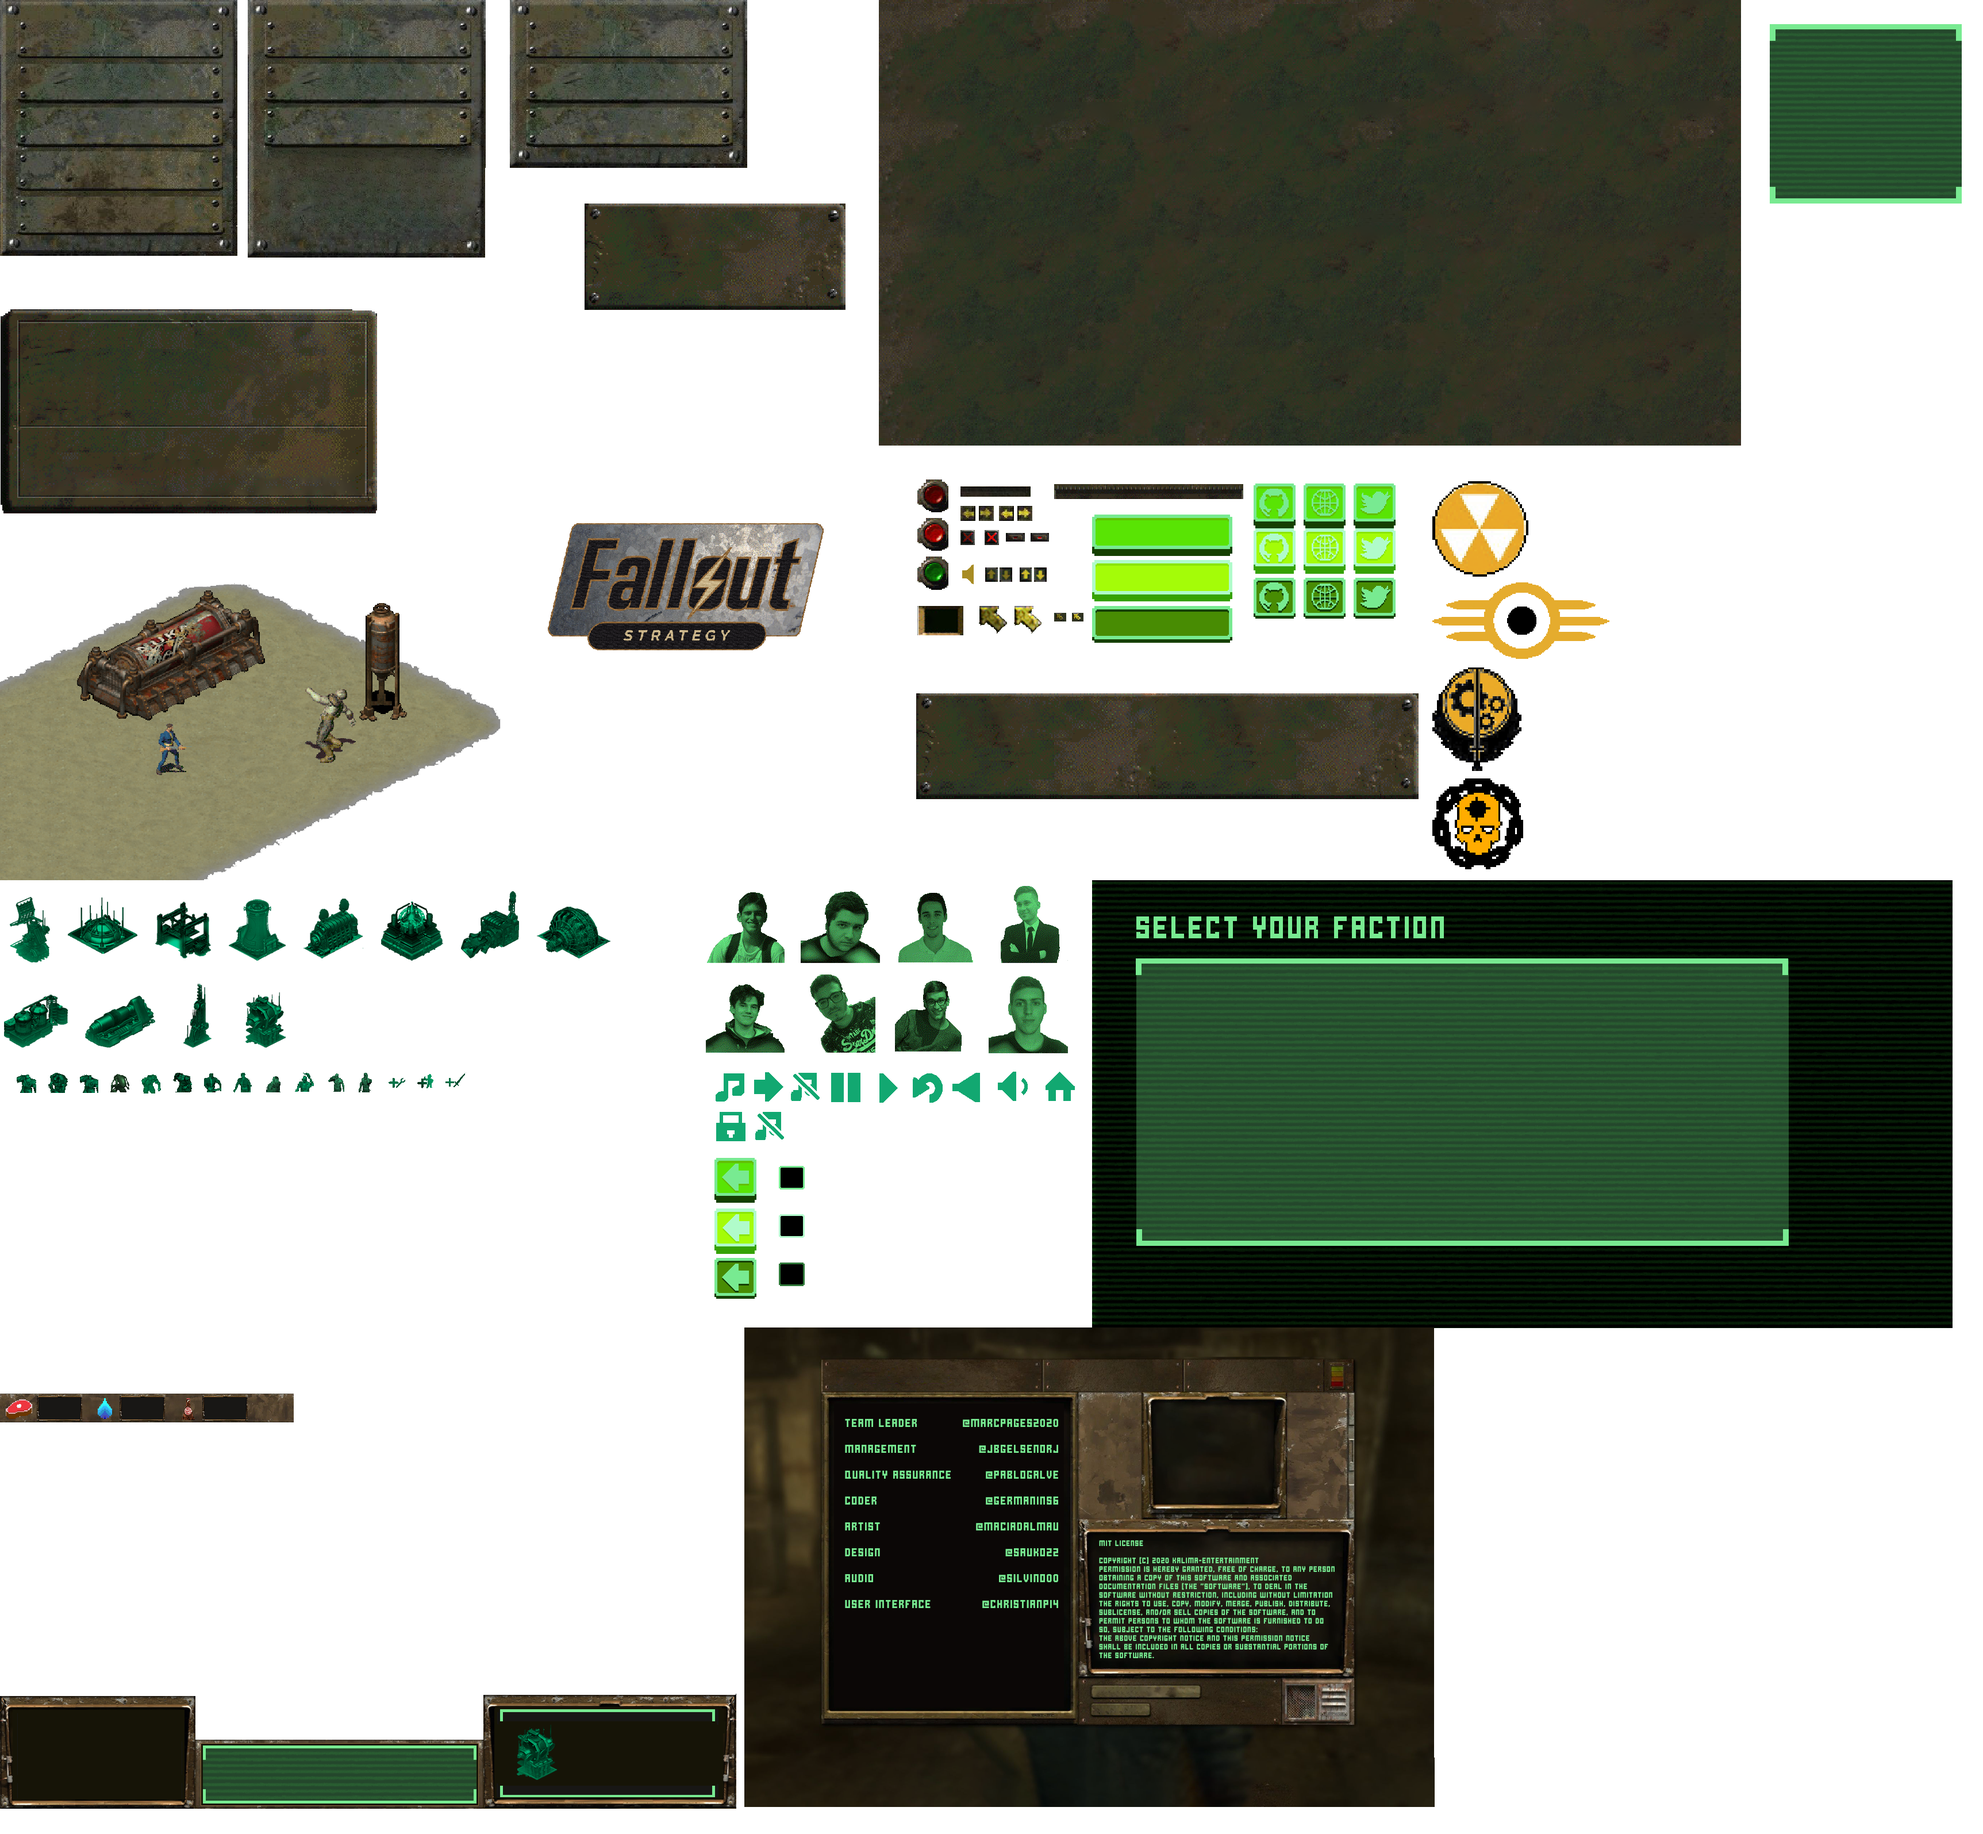
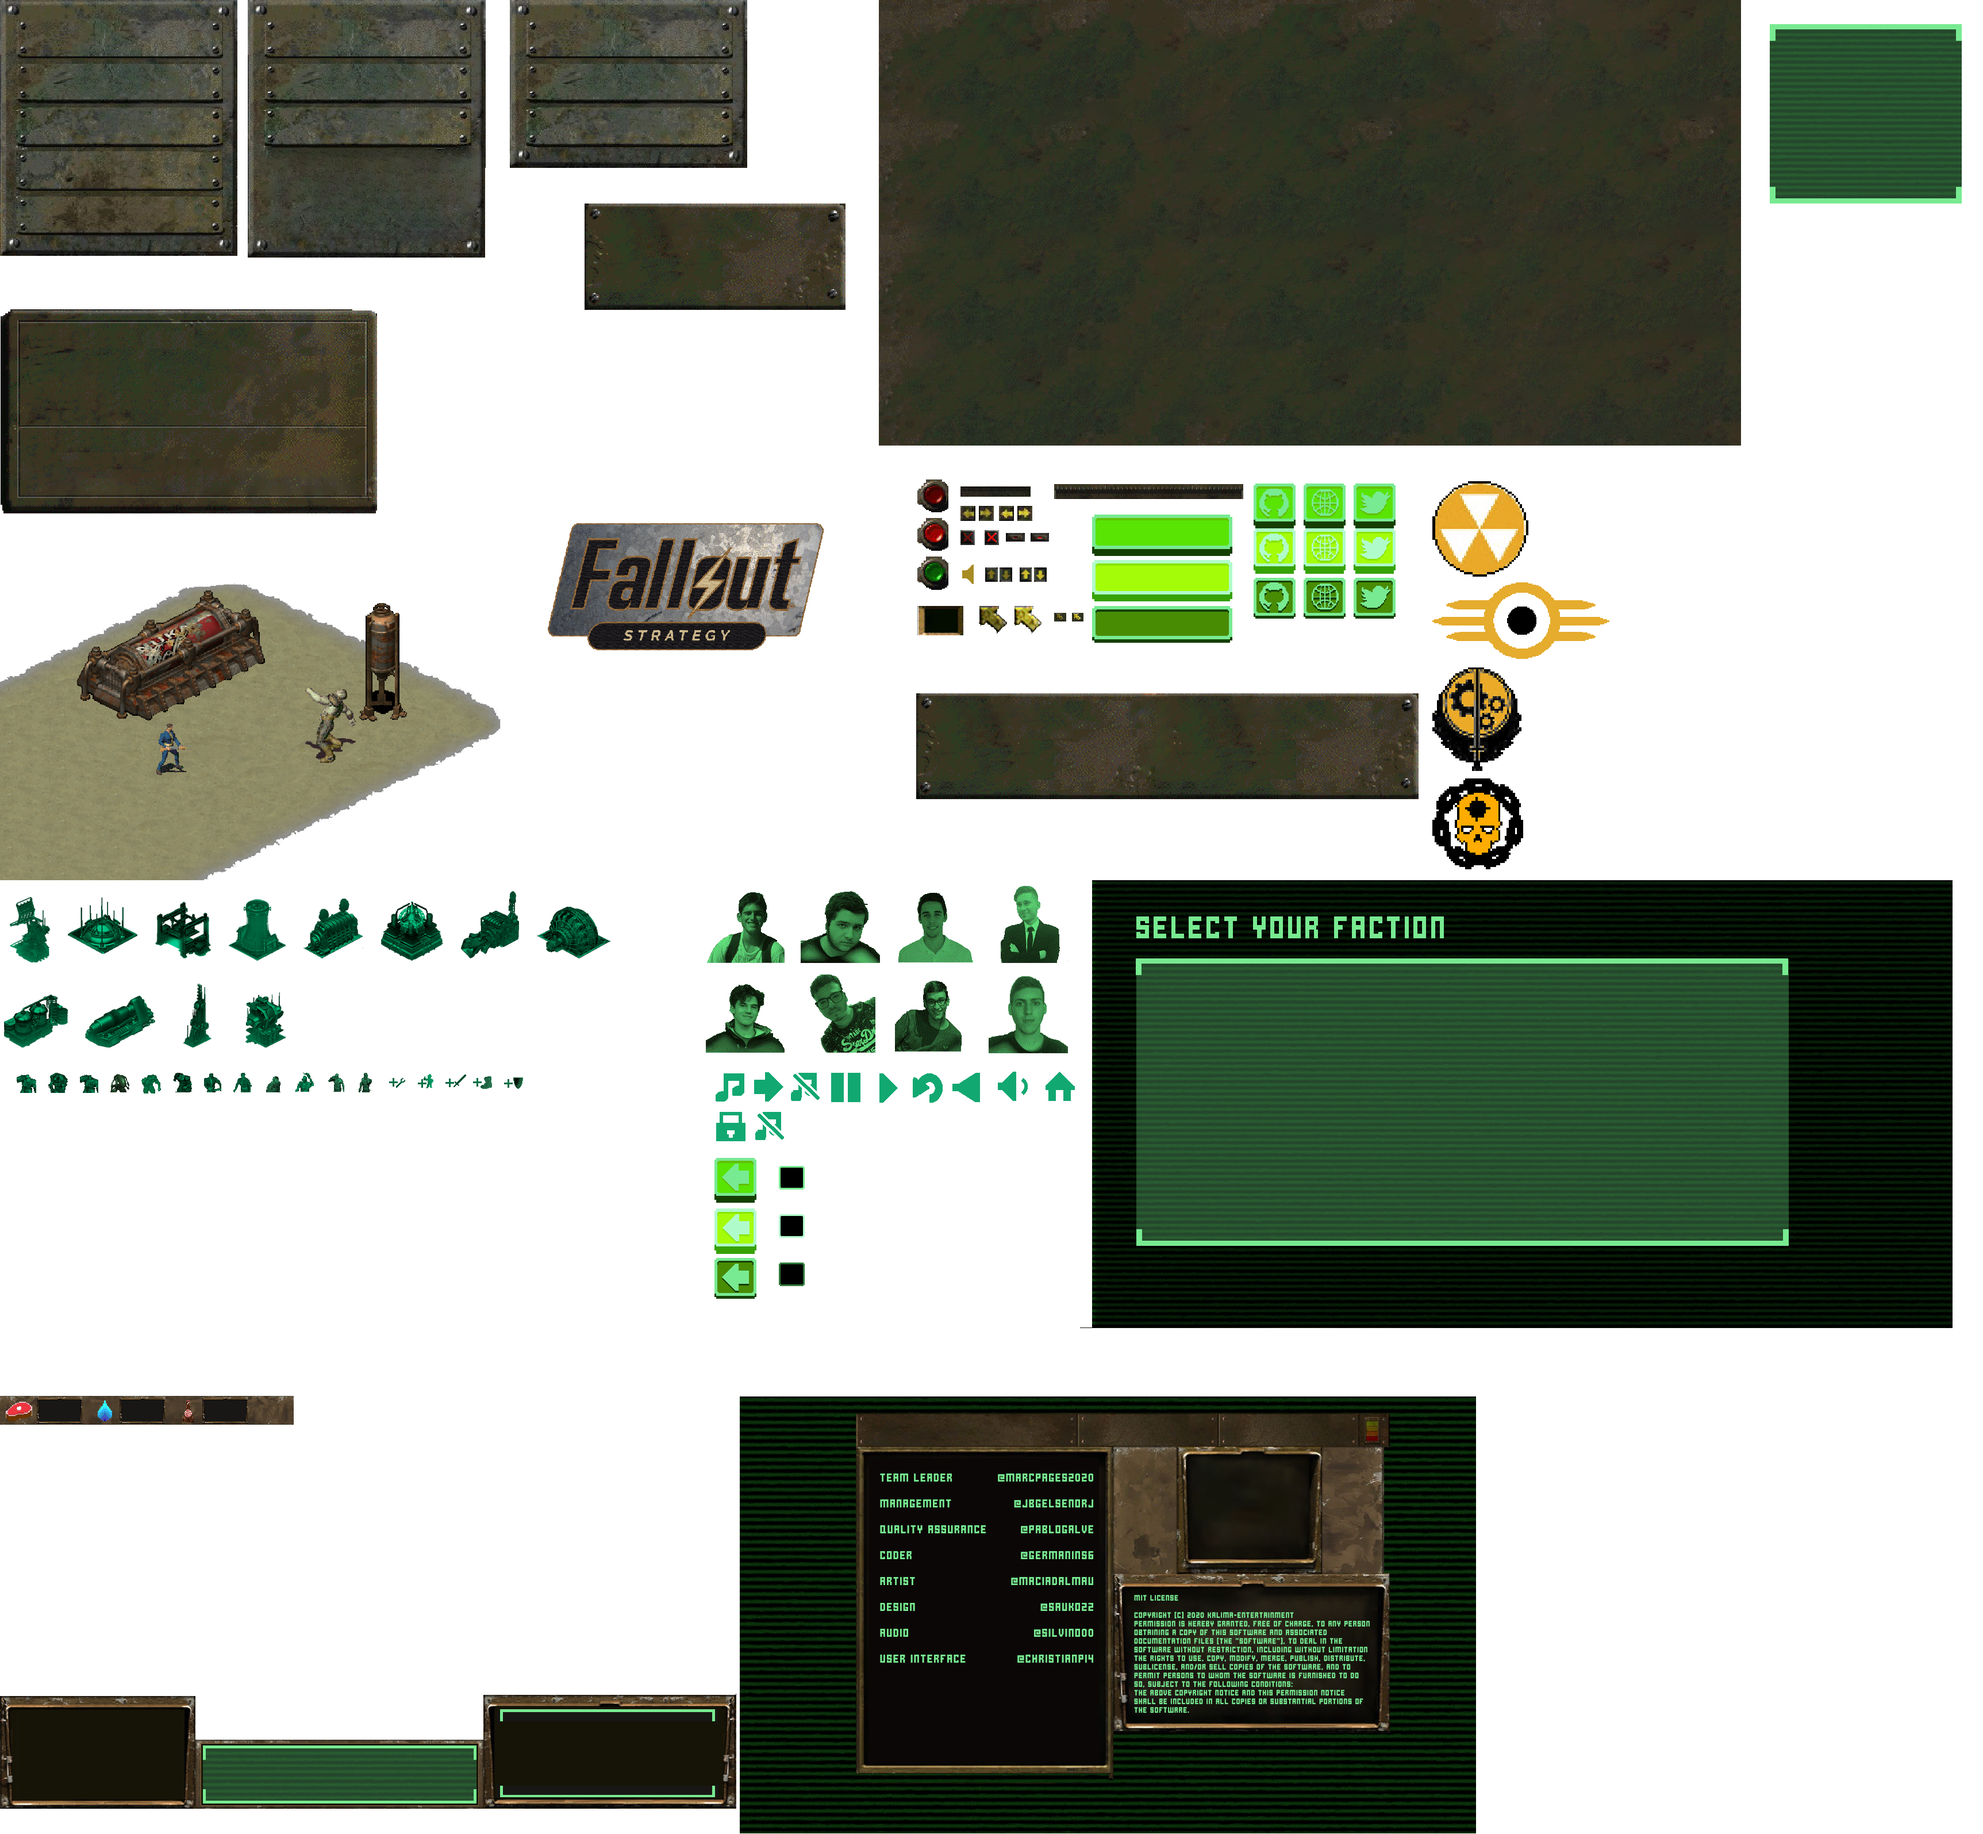
Update UI

Changed region(s): [[0.3722, 0.7138, 0.7443, 1.0], [0.0, 0.7448, 0.1241, 0.7759], [0.2481, 0.931, 0.2791, 0.9931]]

diff --git a/FalloutStrategy/Motor2D/MenuManager.cpp b/FalloutStrategy/Motor2D/MenuManager.cpp
@@ -86,21 +86,21 @@ void MenuManager::DestroyMainMenu()
 void MenuManager::CreateCredits()
 {
 	//Images
-	credits_menu.background = (j1Image*)App->gui->CreateImage(-90, 0, Image, { 0, 1536, 1207, 837 }, NULL, this);
+	credits_menu.background = (j1Image*)App->gui->CreateImage(0, 0, Image, { 1287, 2430, 1281, 730 }, NULL, this);
 
 	//Buttons
-	credits_menu.back_button = (UI_Button*)App->gui->CreateButton(65, 65, button_back_credits, { 1704,1054,48,46 }, { 1765,1054,48,46 }, { 1765,1054,48,46 }, NULL, this);
-	credits_menu.github_button = (UI_Button*)App->gui->CreateButton(110, 550, button_github_credits, { 2181,841,73,78 }, { 2181,919,73,78 }, { 2181,1005,73,78 }, NULL, this);
-	credits_menu.web_button = (UI_Button*)App->gui->CreateButton(230, 550, button_web_credits, { 2268,841,73,78 }, { 2268,919,73,78 }, { 2268,1005,73,78 }, NULL, this);
-	credits_menu.twitter_button = (UI_Button*)App->gui->CreateButton(350, 550, button_twitter_credits, { 2355,841,73,78 }, { 2355,919,73,78 }, { 2355,1005,73,78 }, NULL, this);
-	credits_menu.marc_button = (UI_Button*)App->gui->CreateButton(290, 160, button_marc, { 0,455,166,17 }, { 0,455,166,17 }, { 0,455,166,17 }, NULL, this);
-	credits_menu.javi_button = (UI_Button*)App->gui->CreateButton(290, 205, button_javi, { 0,455,166,17 }, { 0,455,166,17 }, { 0,455,166,17 }, NULL, this);
-	credits_menu.pablo_button = (UI_Button*)App->gui->CreateButton(290, 250, button_pablo, { 0,455,166,17 }, { 0,455,166,17 }, { 0,455,166,17 }, NULL, this);
-	credits_menu.german_button = (UI_Button*)App->gui->CreateButton(290, 295, button_german, { 0,455,166,17 }, { 0,455,166,17 }, { 0,455,166,17 }, NULL, this);
-	credits_menu.macia_button = (UI_Button*)App->gui->CreateButton(290, 340, button_macia, { 0,455,166,17 }, { 0,455,166,17 }, { 0,455,166,17 }, NULL, this);
-	credits_menu.pol_button = (UI_Button*)App->gui->CreateButton(290, 385, button_pol, { 0,455,166,17 }, { 0,455,166,17 }, { 0,455,166,17 }, NULL, this);
-	credits_menu.silvino_button = (UI_Button*)App->gui->CreateButton(290, 430, button_silvino, { 0,455,166,17 }, { 0,455,166,17 }, { 0,455,166,17 }, NULL, this);
-	credits_menu.cristian_button = (UI_Button*)App->gui->CreateButton(290, 475, button_cristian, { 0,455,166,17 }, { 0,455,166,17 }, { 0,455,166,17 }, NULL, this);
+	credits_menu.back_button = (UI_Button*)App->gui->CreateButton(65, 65, button_back_credits, { 1243,2014,73,78 }, { 1243,2102,73,79 }, { 1243,2188,73,71 }, NULL, this);
+	credits_menu.github_button = (UI_Button*)App->gui->CreateButton(750, 600, button_github_credits, { 2181,841,73,78 }, { 2181,919,73,78 }, { 2181,1005,73,78 }, NULL, this);
+	credits_menu.web_button = (UI_Button*)App->gui->CreateButton(850, 600, button_web_credits, { 2268,841,73,78 }, { 2268,919,73,78 }, { 2268,1005,73,78 }, NULL, this);
+	credits_menu.twitter_button = (UI_Button*)App->gui->CreateButton(950, 600, button_twitter_credits, { 2355,841,73,78 }, { 2355,919,73,78 }, { 2355,1005,73,78 }, NULL, this);
+	credits_menu.marc_button = (UI_Button*)App->gui->CreateButton(450, 130, button_marc, { 0,455,166,17 }, { 0,455,166,17 }, { 0,455,166,17 }, NULL, this);
+	credits_menu.javi_button = (UI_Button*)App->gui->CreateButton(450, 175, button_javi, { 0,455,166,17 }, { 0,455,166,17 }, { 0,455,166,17 }, NULL, this);
+	credits_menu.pablo_button = (UI_Button*)App->gui->CreateButton(450, 220, button_pablo, { 0,455,166,17 }, { 0,455,166,17 }, { 0,455,166,17 }, NULL, this);
+	credits_menu.german_button = (UI_Button*)App->gui->CreateButton(450, 265, button_german, { 0,455,166,17 }, { 0,455,166,17 }, { 0,455,166,17 }, NULL, this);
+	credits_menu.macia_button = (UI_Button*)App->gui->CreateButton(450, 310, button_macia, { 0,455,166,17 }, { 0,455,166,17 }, { 0,455,166,17 }, NULL, this);
+	credits_menu.pol_button = (UI_Button*)App->gui->CreateButton(450, 355, button_pol, { 0,455,166,17 }, { 0,455,166,17 }, { 0,455,166,17 }, NULL, this);
+	credits_menu.silvino_button = (UI_Button*)App->gui->CreateButton(450, 400, button_silvino, { 0,455,166,17 }, { 0,455,166,17 }, { 0,455,166,17 }, NULL, this);
+	credits_menu.cristian_button = (UI_Button*)App->gui->CreateButton(450, 445, button_cristian, { 0,455,166,17 }, { 0,455,166,17 }, { 0,455,166,17 }, NULL, this);
 }
 
 void MenuManager::DestroyCredits()
@@ -136,7 +136,6 @@ void MenuManager::CreateSettings()
 	settings_menu.fps_image = (j1Image*)App->gui->CreateImage(595, 600, FPS, { 1599, 1054, 77, 52 }, NULL, this);
 
 	//Labels
-	
 	settings_menu.fps = (UI_Label*)App->gui->CreateLabel(520, 525, text_fps, "REFRESH RATE", NULL, this, NULL);
 	settings_menu.fx_volume = (UI_Label*)App->gui->CreateLabel(360, 335, text_fx_volume, "SOUND EFFECTS VOLUME", NULL, this, NULL);
 	settings_menu.music_volume = (UI_Label*)App->gui->CreateLabel(360, 150, text_music_volume, "MUSIC VOLUME", NULL, this, NULL);
@@ -196,31 +195,31 @@ void MenuManager::CreateCollaboratorPicture()
 	switch (collaborator) 
 	{
 	case 'M':
-		credits_menu.marc_image = (j1Image*)App->gui->CreateImage(660, 150, Image, { 1230, 1545, 138, 138 }, NULL, this);
+		credits_menu.marc_image = (j1Image*)App->gui->CreateImage(815, 130, Image, { 1230, 1545, 138, 138 }, NULL, this);
 		break;
 	case 'J':
-		credits_menu.javi_image = (j1Image*)App->gui->CreateImage(660, 150, Image, { 1392, 1545, 138, 138 }, NULL, this);
+		credits_menu.javi_image = (j1Image*)App->gui->CreateImage(815, 130, Image, { 1392, 1545, 138, 138 }, NULL, this);
 		break;
 	case 'P':
-		credits_menu.pablo_image = (j1Image*)App->gui->CreateImage(660, 150, Image, { 1563, 1545, 138, 138 }, NULL, this);
+		credits_menu.pablo_image = (j1Image*)App->gui->CreateImage(815, 130, Image, { 1563, 1545, 138, 138 }, NULL, this);
 		break;
 	case 'G':
-		credits_menu.german_image = (j1Image*)App->gui->CreateImage(660, 150, Image, { 1719, 1539, 138, 138 }, NULL, this);
+		credits_menu.german_image = (j1Image*)App->gui->CreateImage(815, 130, Image, { 1719, 1539, 138, 138 }, NULL, this);
 		break;
 	case 'D':
-		credits_menu.macia_image = (j1Image*)App->gui->CreateImage(660, 150, Image, { 1230, 1690, 138, 138 }, NULL, this);
+		credits_menu.macia_image = (j1Image*)App->gui->CreateImage(815, 130, Image, { 1230, 1690, 138, 138 }, NULL, this);
 		break;
 	case 'K':
-		credits_menu.pol_image = (j1Image*)App->gui->CreateImage(660, 150, Image, { 1392, 1690, 138, 138 }, NULL, this);
+		credits_menu.pol_image = (j1Image*)App->gui->CreateImage(815, 130, Image, { 1392, 1690, 138, 138 }, NULL, this);
 		break;
 	case 'S':
-		credits_menu.silvino_image = (j1Image*)App->gui->CreateImage(660, 150, Image, { 1563, 1690, 138, 138 }, NULL, this);
+		credits_menu.silvino_image = (j1Image*)App->gui->CreateImage(815, 130, Image, { 1563, 1690, 138, 138 }, NULL, this);
 		break;
 	case 'C':
-		credits_menu.cristian_image = (j1Image*)App->gui->CreateImage(660, 150, Image, { 1719, 1690, 138, 138 }, NULL, this);
+		credits_menu.cristian_image = (j1Image*)App->gui->CreateImage(815, 130, Image, { 1719, 1690, 138, 138 }, NULL, this);
 		break;
 	default:
-		credits_menu.marc_image = (j1Image*)App->gui->CreateImage(660, 150, Image, { 1230, 1545, 138, 138 }, NULL, this);
+		credits_menu.marc_image = (j1Image*)App->gui->CreateImage(815, 130, Image, { 1230, 1545, 138, 138 }, NULL, this);
 	}
 	
 
@@ -405,9 +404,9 @@ void MenuManager::CreateGUI()
 		p2SString ww("%i", App->player->water);
 		p2SString ff("%i", App->player->food);
 		
-		gui_ingame.nukas_count = (UI_Label*)App->gui->CreateLabel(135, 8, Nukas, cc, NULL, this, NULL);
-		gui_ingame.water_count = (UI_Label*)App->gui->CreateLabel(345, 8, Water, ww, NULL, this, NULL);
-		gui_ingame.meat_count = (UI_Label*)App->gui->CreateLabel(550, 8, Meat, ff, NULL, this, NULL);
+		gui_ingame.meat_count = (UI_Label*)App->gui->CreateLabel(95, 10, Meat, ff, NULL, this, NULL);
+		gui_ingame.water_count = (UI_Label*)App->gui->CreateLabel(240, 10, Water, ww, NULL, this, NULL);
+		gui_ingame.nukas_count = (UI_Label*)App->gui->CreateLabel(385, 10, Nukas, cc, NULL, this, NULL);
 
 		gui_ingame.count++;
 	}
